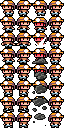
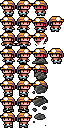
canvi pinxos + morir et fa inmune

Changed region(s): [[0.75, 0.25, 1.0, 1.0], [0.75, 0.0, 1.0, 0.125], [0.5312, 0.0312, 0.7188, 0.125]]

diff --git a/2DGame/02-Bubble/02-Bubble/Player.cpp b/2DGame/02-Bubble/02-Bubble/Player.cpp
@@ -26,12 +26,15 @@
 
 enum PlayerAnims
 {
-	STAND_LEFT, STAND_RIGHT, MOVE_LEFT, MOVE_RIGHT, DYING
+	STAND_LEFT, STAND_RIGHT, MOVE_LEFT, MOVE_RIGHT, DYING 
 };
 
 Player::Player() {
 	initialPosition = glm::ivec2(INIT_PLAYER_X_TILES, INIT_PLAYER_Y_TILES);
 	hearts = 5;
+	inmune = false;
+	show = true;
+	time = 0;
 }
 
 void Player::init(const glm::ivec2 &tileMapPos, ShaderProgram &shaderProgram)
@@ -53,7 +56,7 @@ void Player::init(const glm::ivec2 &tileMapPos, ShaderProgram &shaderProgram)
 	sprite->addKeyframe(DYING, glm::vec2(0.5f, 7 / 8.f));
 
 	sprite->setAnimationSpeed(STAND_LEFT, 1);
-	sprite->addKeyframe(STAND_LEFT, glm::vec2(0.5f, 0.f));
+	sprite->addKeyframe(STAND_LEFT, glm::vec2(0.f, 0.f));
 
 	sprite->setAnimationSpeed(STAND_RIGHT, 1);
 	sprite->addKeyframe(STAND_RIGHT, glm::vec2(0.25f, 0.f));
@@ -87,94 +90,103 @@ void Player::init(const glm::ivec2 &tileMapPos, ShaderProgram &shaderProgram)
 void Player::update(int deltaTime)
 {
 	sprite->update(deltaTime);
-	if (Game::instance().getSpecialKey(GLUT_KEY_LEFT))
-	{
-		if (sprite->animation() != MOVE_LEFT)
-			sprite->changeAnimation(MOVE_LEFT);
-		posPlayer.x -= PLAYER_SPEED;
-		if (map->collisionMoveLeft(posPlayer + glm::ivec2(PLAYER_WIDTH_OFFSET, 0), glm::ivec2(PLAYER_WIDTH, PLAYER_HEIGHT), bJumping))
+	time += deltaTime;
+	if (time%800 < 400) show = false;
+	else show = true;
+	if (time - timeInmune > 6000) inmune = false;
+	if (sprite->animation() != DYING) {
+		if (Game::instance().getSpecialKey(GLUT_KEY_LEFT))
 		{
-			posPlayer.x += PLAYER_SPEED;
-			sprite->changeAnimation(STAND_LEFT);
-		}
-	}
-	else if (Game::instance().getSpecialKey(GLUT_KEY_RIGHT))
-	{
-		if (sprite->animation() != MOVE_RIGHT)
-			sprite->changeAnimation(MOVE_RIGHT);
-		posPlayer.x += PLAYER_SPEED;
-		if (map->collisionMoveRight(posPlayer + glm::ivec2(PLAYER_WIDTH_OFFSET, 0), glm::ivec2(PLAYER_WIDTH, PLAYER_HEIGHT), bJumping))
-		{
+			if (sprite->animation() != MOVE_LEFT)
+				sprite->changeAnimation(MOVE_LEFT);
 			posPlayer.x -= PLAYER_SPEED;
-			sprite->changeAnimation(STAND_RIGHT);
+			if (map->collisionMoveLeft(posPlayer + glm::ivec2(PLAYER_WIDTH_OFFSET, 0), glm::ivec2(PLAYER_WIDTH, PLAYER_HEIGHT), bJumping))
+			{
+				posPlayer.x += PLAYER_SPEED;
+				sprite->changeAnimation(STAND_LEFT);
+			}
 		}
-	}
-	else
-	{
-		if (sprite->animation() == MOVE_LEFT)
-			sprite->changeAnimation(STAND_LEFT);
-		else if (sprite->animation() == MOVE_RIGHT)
-			sprite->changeAnimation(STAND_RIGHT);
-	}
-
-	if (bJumping)
-	{
-		++coyoteTime;
-		jumpAngle += JUMP_ANGLE_STEP;
-		if (jumpAngle >= 180)
+		else if (Game::instance().getSpecialKey(GLUT_KEY_RIGHT))
 		{
-			bJumping = false;
-			//posPlayer.y = startY + jumpLost;
+			if (sprite->animation() != MOVE_RIGHT)
+				sprite->changeAnimation(MOVE_RIGHT);
+			posPlayer.x += PLAYER_SPEED;
+			if (map->collisionMoveRight(posPlayer + glm::ivec2(PLAYER_WIDTH_OFFSET, 0), glm::ivec2(PLAYER_WIDTH, PLAYER_HEIGHT), bJumping))
+			{
+				posPlayer.x -= PLAYER_SPEED;
+				sprite->changeAnimation(STAND_RIGHT);
+			}
 		}
 		else
 		{
-
-			posPlayer.y = int((startY + jumpLost) - JUMP_HEIGHT * sin(3.14159f * jumpAngle / 180.f));
-			if (map->collisionMoveUp(posPlayer + glm::ivec2(PLAYER_WIDTH_OFFSET, 0), glm::ivec2(PLAYER_WIDTH, PLAYER_HEIGHT), &posPlayer.y)) {
-				jumpAngle = 90;
-				jumpLost += posPlayer.y - int(startY - JUMP_HEIGHT * sin(3.14159f * jumpAngle / 180.f));
-			}
-			if (jumpAngle > 90) {
-				bJumping = !map->collisionMoveDown(posPlayer + glm::ivec2(PLAYER_WIDTH_OFFSET, 0), glm::ivec2(PLAYER_WIDTH, PLAYER_HEIGHT), &posPlayer.y);
-				if (!bJumping) coyoteTime = 0;
-			}
+			if (sprite->animation() == MOVE_LEFT)
+				sprite->changeAnimation(STAND_LEFT);
+			else if (sprite->animation() == MOVE_RIGHT)
+				sprite->changeAnimation(STAND_RIGHT);
 		}
-	}
-	else
-	{
-		posPlayer.y += FALL_STEP;
-		bool collisionDown = map->collisionMoveDown(posPlayer + glm::ivec2(PLAYER_WIDTH_OFFSET, 0), glm::ivec2(PLAYER_WIDTH, PLAYER_HEIGHT), &posPlayer.y);
-		if (!collisionDown) ++coyoteTime;
-		if (collisionDown || coyoteTime < COYOTE_TIME)
+
+		if (bJumping)
 		{
-			if (Game::instance().getSpecialKey(GLUT_KEY_UP))
+			++coyoteTime;
+			jumpAngle += JUMP_ANGLE_STEP;
+			if (jumpAngle >= 180)
 			{
-				coyoteTime = COYOTE_TIME;
-				bJumping = true;
-				jumpAngle = 0;
-				jumpLost = 0;
-				startY = posPlayer.y;
+				bJumping = false;
+				//posPlayer.y = startY + jumpLost;
+			}
+			else
+			{
+
+				posPlayer.y = int((startY + jumpLost) - JUMP_HEIGHT * sin(3.14159f * jumpAngle / 180.f));
+				if (map->collisionMoveUp(posPlayer + glm::ivec2(PLAYER_WIDTH_OFFSET, 0), glm::ivec2(PLAYER_WIDTH, PLAYER_HEIGHT), &posPlayer.y)) {
+					jumpAngle = 90;
+					jumpLost += posPlayer.y - int(startY - JUMP_HEIGHT * sin(3.14159f * jumpAngle / 180.f));
+				}
+				if (jumpAngle > 90) {
+					bJumping = !map->collisionMoveDown(posPlayer + glm::ivec2(PLAYER_WIDTH_OFFSET, 0), glm::ivec2(PLAYER_WIDTH, PLAYER_HEIGHT), &posPlayer.y);
+					if (!bJumping) coyoteTime = 0;
+				}
 			}
 		}
-	}
-	map->collisionRajola(posPlayer, glm::ivec2(PLAYER_WIDTH, PLAYER_HEIGHT), &posPlayer.y);
-
-	if (map->collisionSpikes(posPlayer, glm::ivec2(PLAYER_WIDTH, PLAYER_HEIGHT), &posPlayer.y)) {
-		if (sprite->animation() != DYING) {
+		else
+		{
+			posPlayer.y += FALL_STEP;
+			bool collisionDown = map->collisionMoveDown(posPlayer + glm::ivec2(PLAYER_WIDTH_OFFSET, 0), glm::ivec2(PLAYER_WIDTH, PLAYER_HEIGHT), &posPlayer.y);
+			if (!collisionDown) ++coyoteTime;
+			if (collisionDown || coyoteTime < COYOTE_TIME)
+			{
+				if (Game::instance().getSpecialKey(GLUT_KEY_UP))
+				{
+					coyoteTime = COYOTE_TIME;
+					bJumping = true;
+					jumpAngle = 0;
+					jumpLost = 0;
+					startY = posPlayer.y;
+				}
+			}
+		}
+		map->collisionRajola(posPlayer, glm::ivec2(PLAYER_WIDTH, PLAYER_HEIGHT), &posPlayer.y);
+		
+		if (map->collisionSpikes(posPlayer, glm::ivec2(PLAYER_WIDTH, PLAYER_HEIGHT), &posPlayer.y) && !inmune) {
 			sprite->changeAnimation(DYING);
 			if (hearts > 0) --hearts;
+			posPlayer.y += 4;
 		}
-		else if (sprite->getKeyFrame() > 6) {
-			sprite->changeAnimation(STAND_LEFT);
-			setPosition(glm::vec2(INIT_PLAYER_X_TILES * map->getTileSize(), INIT_PLAYER_Y_TILES * map->getTileSize()));
-		}
+
+		sprite->setPosition(glm::vec2(float(tileMapDispl.x + posPlayer.x), float(tileMapDispl.y + posPlayer.y)));
 	}
-	else sprite->setPosition(glm::vec2(float(tileMapDispl.x + posPlayer.x), float(tileMapDispl.y + posPlayer.y)));
+	else if (sprite->getKeyFrame() > 6) {
+		sprite->changeAnimation(STAND_LEFT);
+		setPosition(glm::vec2(INIT_PLAYER_X_TILES * map->getTileSize(), INIT_PLAYER_Y_TILES * map->getTileSize()));
+		inmune = true;
+		timeInmune = time;
+	}
+
 }
 
 void Player::render()
-{
-	sprite->render();
+{	
+	if (!inmune || show) sprite->render();
 }
 
 void Player::setTileMap(TileMap *tileMap)

diff --git a/2DGame/02-Bubble/02-Bubble/Player.h b/2DGame/02-Bubble/02-Bubble/Player.h
@@ -35,6 +35,10 @@ private:
 	Sprite *sprite;
 	TileMap *map;
 	int hearts;
+	bool inmune;
+	bool show;
+	int time;
+	int timeInmune;
 };
 
 
